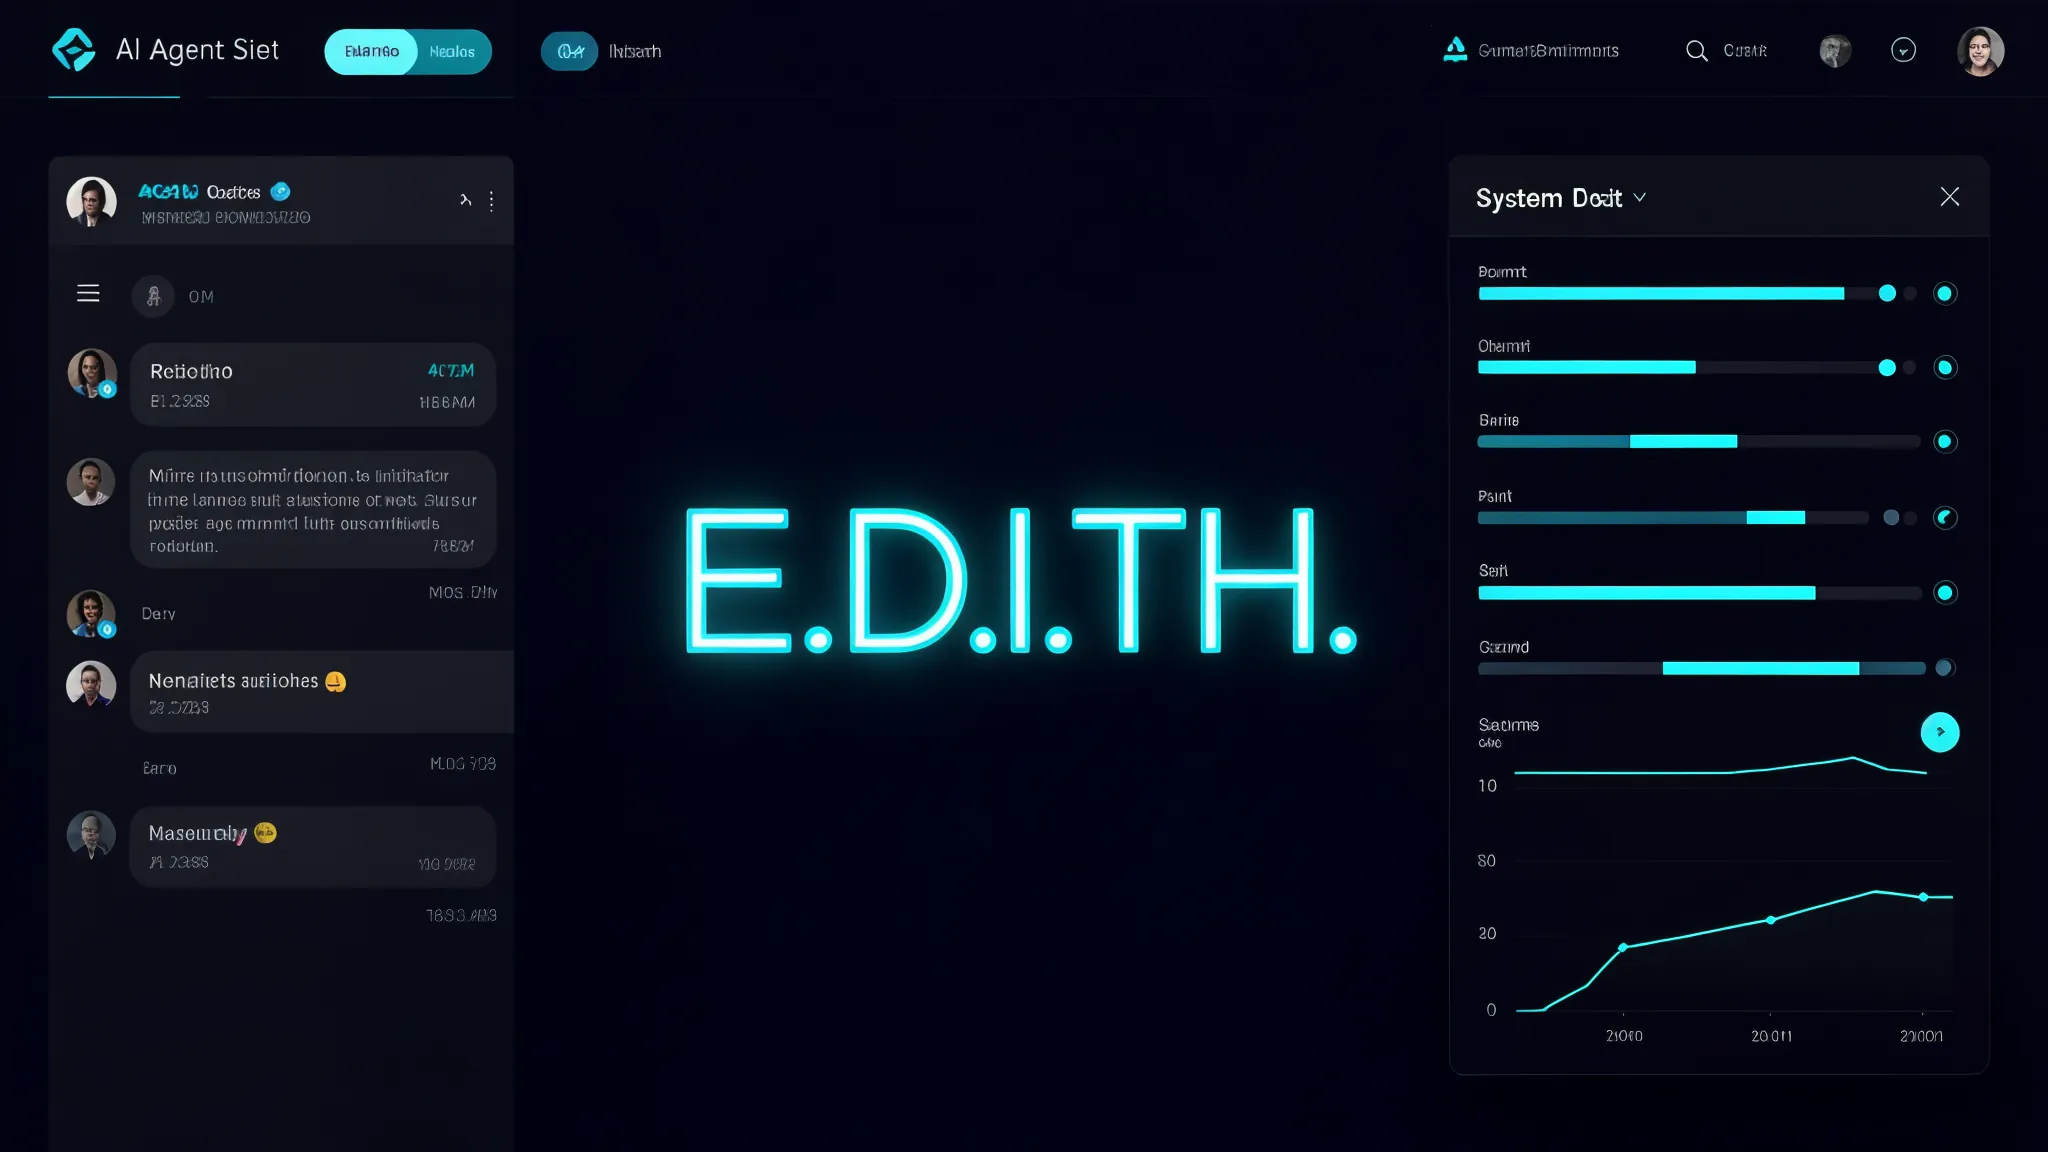
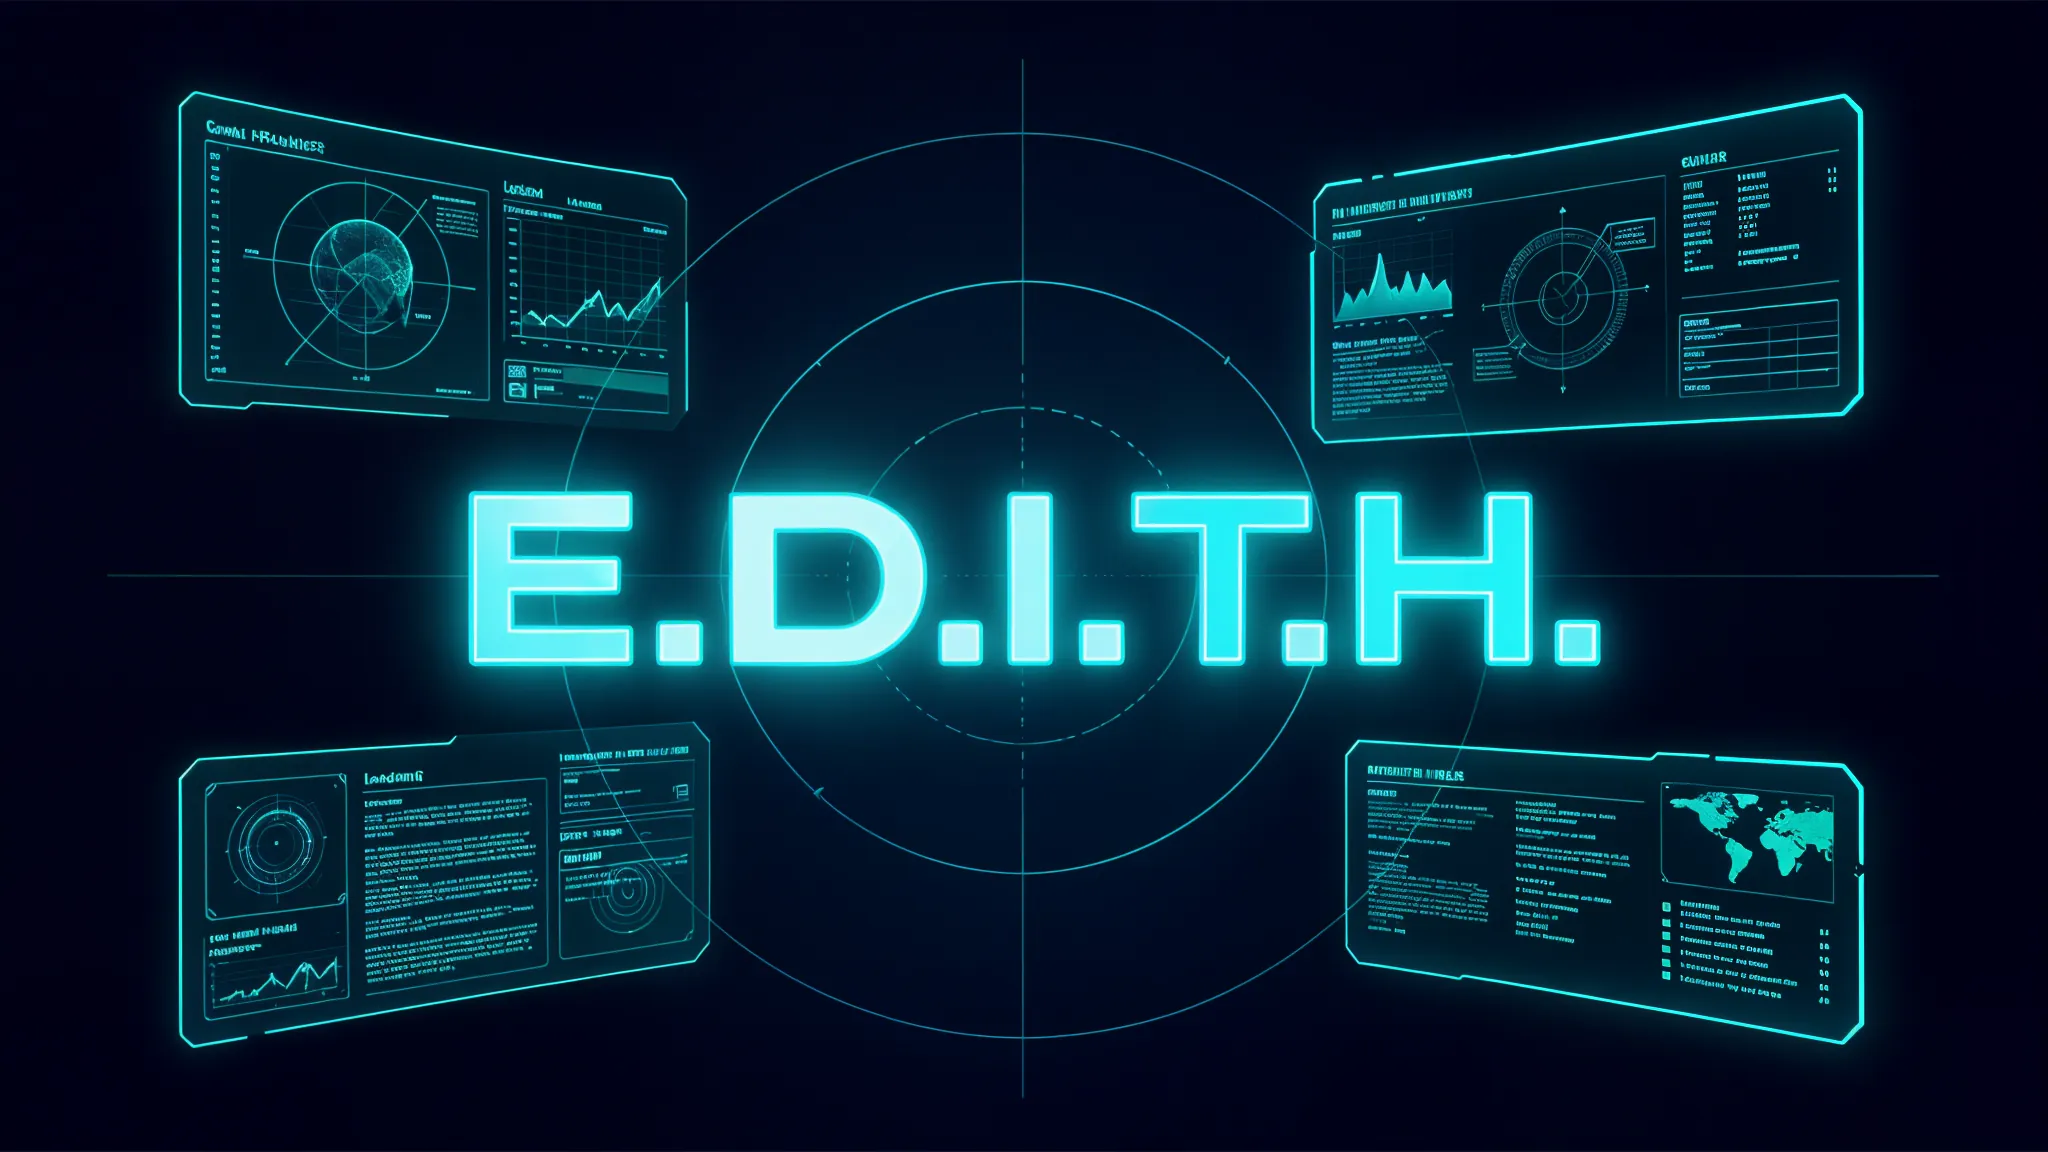
feat: add T.H.O.R. — Marvel-ize both AI agents
T.H.O.R. (Thunder-Heavy Operations Runner — The Hammer of Results):
• New project card + modal, on-prem local workhorse
• Preview: Mjolnir hammer + lightning, electric-blue theme
• Tags: AI Agent, Local, On-Prem, Qwen
• Tech stack: Qwen3.6-27B, vLLM, NVFP4, EdgeXpert, Tailscale

E.D.I.T.H. (Every Detail Inspected, Totally Helpful):
• Preview regenerated: holographic HUD w/ floating panels + cyan glow
• Copy: 'always-on AI agent watching over operations'

Both agents now carry subtle Marvel flavor while staying professional:
cloud E.D.I.T.H. (holographic assistant) + local T.H.O.R. (thunder-god workhorse)

diff --git a/index.html b/index.html
@@ -551,7 +551,28 @@ h1{font-family:var(--font-head);font-size:clamp(2rem,7vw,5rem);font-weight:900;c
       <div class="proj-body">
         <div class="ptags"><span class="ptag ptag-int">AI Agent</span><span class="ptag">Hermes</span><span class="ptag">Cloud</span></div>
         <div class="proj-name">E.D.I.T.H.</div>
-        <p class="proj-desc">Custom AI agent — 24/7 ops, automated QC, multi-platform, self-managing with watchdog.</p>
+        <p class="proj-desc">Every detail inspected, totally helpful — your cloud AI agent. 24/7 ops, automated QC, multi-platform.</p>
+      </div>
+    </article>
+
+    <!-- T.H.O.R. — AI Agent (Local) -->
+    <article class="proj-card r" data-category="tools" data-modal="modal-thor">
+      <div class="proj-thumb thumb-ss">
+        <picture><source srcset="img/preview-thor.webp" type="image/webp"><img src="img/preview-thor.png" alt="T.H.O.R. AI Agent" class="ss-img" loading="lazy" decoding="async" width="1740" height="853"></picture>
+        <div class="t-urlbar" aria-hidden="true">
+          <div class="t-dots"><span class="td td-r"></span><span class="td td-y"></span><span class="td td-g"></span></div>
+          <span class="t-url">edgexpert.local:8000 — Qwen3.6-27B</span>
+        </div>
+        <div class="t-overlay">
+          <div class="t-overlay-actions">
+            <button class="btn-modal-open" data-modal="modal-thor"><svg width="12" height="12" viewBox="0 0 24 24" fill="none" stroke="currentColor" stroke-width="2.5" stroke-linecap="round"><path d="M1 12s4-8 11-8 11 8 11 8-4 8-11 8-11-8-11-8z"/><circle cx="12" cy="12" r="3"/></svg>Details</button>
+          </div>
+        </div>
+      </div>
+      <div class="proj-body">
+        <div class="ptags"><span class="ptag ptag-int">AI Agent</span><span class="ptag">Local</span><span class="ptag">On-Prem</span></div>
+        <div class="proj-name">T.H.O.R.</div>
+        <p class="proj-desc">Thunder-Heavy Operations Runner — the on-prem workhorse. Private, zero per-token cost.</p>
       </div>
     </article>
 
@@ -1183,9 +1204,33 @@ h1{font-family:var(--font-head);font-size:clamp(2rem,7vw,5rem);font-weight:900;c
         <div class="modal-problem"><span class="modal-label">Problem</span>Ops work — QC, monitoring, automations — needed a reliable 24/7 assistant that could actually execute, not just chat.</div>
         <div class="modal-result"><span class="modal-label">Result</span>Custom AI agent deployed on cloud VPS. Handles QC for 1,500+ SKUs, runs cron automations, connects via Slack/Telegram/desktop. Self-managing with watchdog + auto-failover.</div>
       </div>
-      <p class="modal-desc">E.D.I.T.H. (Every Detail Inspected, Totally Helpful) is a custom AI agent built on Nous Research's Hermes Agent framework. Deployed on a DigitalOcean VPS in Singapore, she runs 24/7 — handling SKU quality control, scheduled price checks, cron automations, and operational monitoring across multiple client projects. Connects via Slack, Telegram, and desktop app. Self-managing with a watchdog process and automatic failover.</p>
+      <p class="modal-desc">E.D.I.T.H. — Every Detail Inspected, Totally Helpful. The always-on AI agent watching over operations. Built on Nous Research's Hermes Agent framework and deployed 24/7 on a DigitalOcean VPS in Singapore, she handles SKU quality control, scheduled price checks, cron automations, and operational monitoring across multiple client projects. Connects via Slack, Telegram, and desktop — self-managing with a watchdog process and automatic failover.</p>
       <div class="modal-stack-label">Tech Stack</div>
       <div class="modal-stack"><span>Hermes Agent</span><span>Python</span><span>DigitalOcean</span><span>systemd</span><span>Slack API</span><span>Telegram API</span><span>GitHub</span><span>DeepSeek</span></div>
+    </div>
+  </div>
+</div>
+
+<!-- T.H.O.R. modal — local on-prem workhorse, Qwen3.6-27B -->
+<div class="proj-modal" id="modal-thor" role="dialog" aria-modal="true" aria-label="T.H.O.R. AI Agent details">
+  <div class="modal-backdrop"></div>
+  <div class="modal-inner">
+    <button class="modal-close" aria-label="Close">✕</button>
+    <div class="modal-screenshot"><picture><source srcset="img/preview-thor.webp" type="image/webp"><img src="img/preview-thor.png" alt="T.H.O.R. AI Agent" loading="lazy" decoding="async" width="1740" height="853"></picture></div>
+    <div class="modal-content">
+      <div class="ptags"><span class="ptag ptag-int">AI Agent</span><span class="ptag">Local</span><span class="ptag">On-Prem</span><span class="ptag">Qwen</span></div>
+      <h3 class="modal-title">T.H.O.R.</h3>
+      <div class="modal-meta">
+        <span class="modal-badge badge-role">Solo Build</span>
+        <span class="modal-badge badge-status">🟢 Live · On-Prem</span>
+      </div>
+      <div class="modal-impact">
+        <div class="modal-problem"><span class="modal-label">Problem</span>Private, boring-but-critical ops work — payroll extraction, invoicing, classification — shouldn't rack up per-token cloud costs.</div>
+        <div class="modal-result"><span class="modal-label">Result</span>The Hammer of Results. Local workhorse on Qwen3.6-27B — zero per-token cost, private, workload-sufficient. Runs payroll, invoicing, extraction & drafting lanes.</div>
+      </div>
+      <p class="modal-desc">T.H.O.R. (Thunder-Heavy Operations Runner — The Hammer of Results) is the on-prem workhorse. Running Qwen3.6-27B-NVFP4 via vLLM on the EdgeXpert box, he carries the private operational workload at zero per-token cost. Local brain, same "measure → verify → disclose" standard as E.D.I.T.H. — quiet, verify-first, and lands real outcomes.</p>
+      <div class="modal-stack-label">Tech Stack</div>
+      <div class="modal-stack"><span>Qwen3.6-27B</span><span>vLLM</span><span>NVFP4</span><span>EdgeXpert</span><span>Tailscale</span><span>Python</span><span>Hermes Agent</span></div>
     </div>
   </div>
 </div>

diff --git a/main.js b/main.js
@@ -1045,7 +1045,7 @@ if (yearEl) yearEl.textContent = new Date().getFullYear();
   const MODAL_ORDER = [
     'modal-moev', 'modal-dpm', 'modal-portfolio', 'modal-toolmart',
     'modal-kdl', 'modal-kdl-checker', 'modal-service-health', 'modal-project-health',
-    'modal-edith'
+    'modal-edith', 'modal-thor'
   ];
   MODAL_ORDER.forEach((id, i) => {
     const modal = document.getElementById(id);
